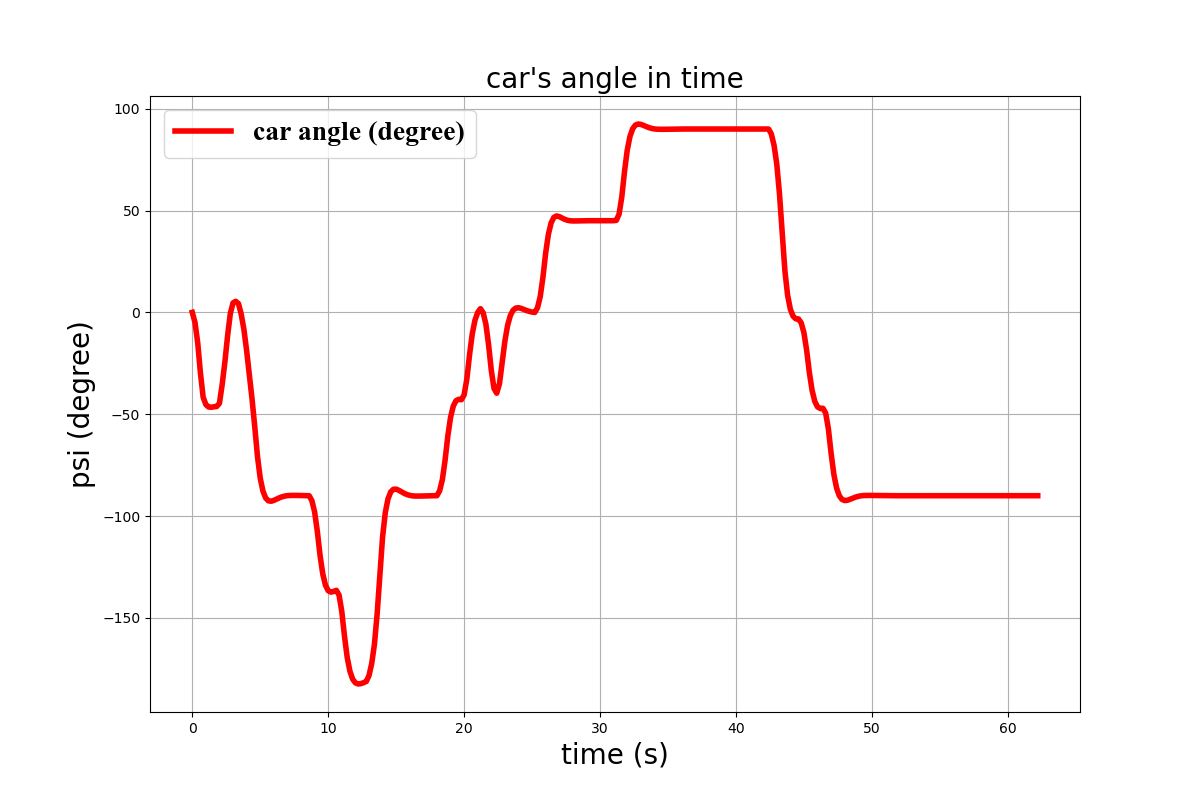
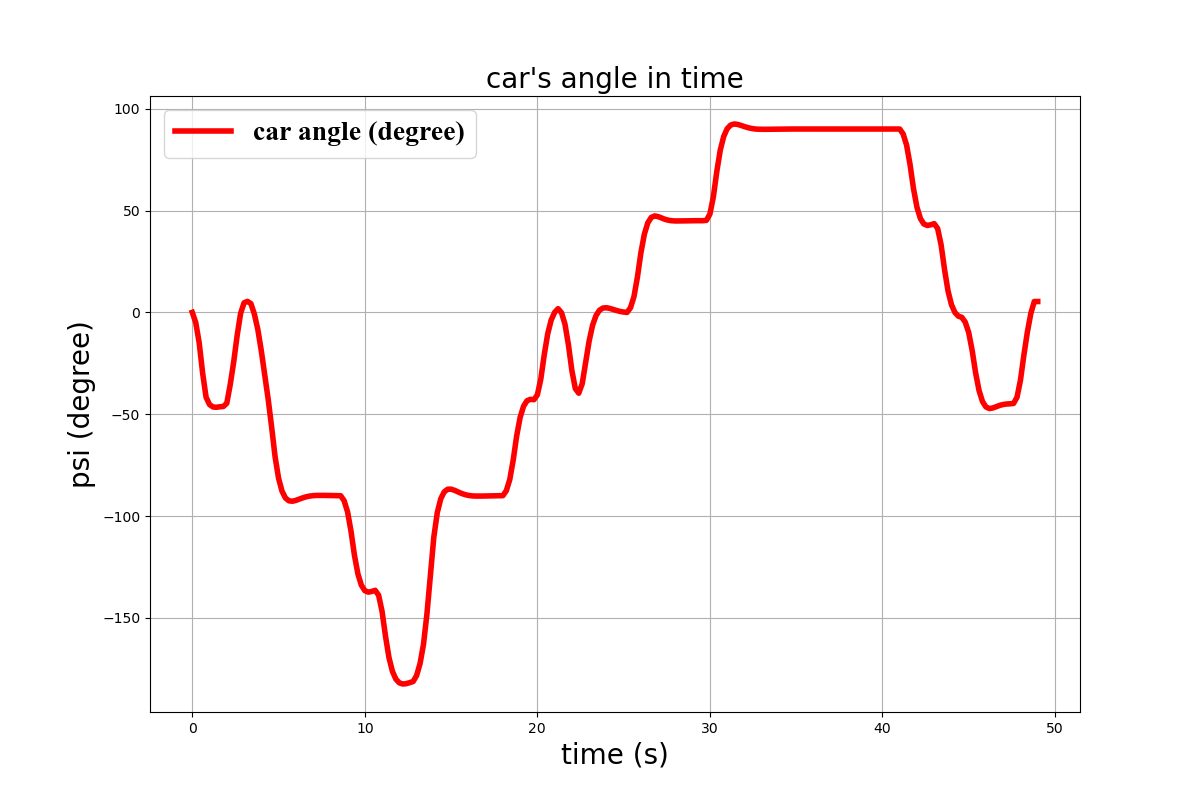
V3

diff --git a/main_autopark_v3.py b/main_autopark_v3.py
@@ -31,7 +31,7 @@ if __name__ == '__main__':
 
     ########################## defining obstacles ###############################################
     random_emptyslot = np.random.randint(-10,24)
-    parking1 = Parking1(-1,original_end) # random parking slot selection ## of can be args.parking
+    parking1 = Parking1(24,original_end) # random parking slot selection ## of can be args.parking
     end,car_obs,env_obs = parking1.generate_obstacles() #car_obs is what car can see and env_obs is what see
 
 
@@ -54,6 +54,7 @@ if __name__ == '__main__':
     controller = MPC_Controller()
     # controller = Linear_MPC_Controller()
 
+    #zeroing car steer
     res = env.render(my_car.x, my_car.y, my_car.psi, 0)
     cv2.imshow('environment', res)
     key = cv2.waitKey(1)
@@ -62,25 +63,41 @@ if __name__ == '__main__':
     ############################# path planning to Original Goal ###############################
     path_planner = ParkPathPlanning(car_obs) #path planner class to take in the obstacles visible to the car only
     print('routing to end of carpark ...') 
-    path = path_planner.plan_path(int(start[0]),int(start[1]),int(end[0]),int(end[1])) #path planning
+    path = path_planner.plan_path(int(start[0]),int(start[1]),int(original_end[0]),int(original_end[1])) #path planning
     env.draw_path(path)
     ################################## Travel to Original Goal ##################################################
     can_park = False #boolean to check if car can park
+    obstacle_found = False #boolean to check if obstacle is found
+    counter = 0 #counter to check if car can park
     print('driving to destination ...')
-    for i,point in enumerate(path):
-        
-        acc, delta = controller.optimize(my_car, path[i:i+MPC_HORIZON])
-        my_car.update_state(my_car.move(acc,  delta))
-        
-        #sensor update
-        res = env.render(my_car.x, my_car.y, my_car.psi, delta)
-        logger.log(point, my_car, acc, delta)
-        cv2.imshow('environment', res)
-        key = cv2.waitKey(1)
-        if key == ord('s'):
-            cv2.imwrite('res.png', res*255)
-        if point[0] -0.5 == original_end[0] and point[1] -0.5 == original_end[1]:
+    
+    # print(path_planner.a_star.obstacle_map)
+    
+    while len(path) > 0: #while path is not empty
+
+        acc, delta = controller.optimize(my_car, path[:MPC_HORIZON]) #get acc and delta from controller of the first 5 points in path
+        my_car.update_state(my_car.move(acc,  delta)) #update car state
+        res = env.render(my_car.x, my_car.y, my_car.psi, delta) #render environment of the car 
+        logger.log(path[0], my_car, acc, delta) #log the data of car
+        cv2.imshow('environment', res) #show the environment of car
+        key = cv2.waitKey(1) 
+        if path[0][0] -0.5 == original_end[0] and path[0][1] -0.5 == original_end[1]:
             print('~ No parking slots found, driver to take over ~')
+            break
+        
+        #TEWSITNTSNT SFWSDSDWEER
+        if counter > 150: ###TESTTTT NEEDD TO BE REPLACED WHEN CAN PARK IS TRUE
+            can_park = True #set can_park to true
+            current_pos = path[0]           
+            path = [] #clear path array
+            path = path_planner.plan_path(int(current_pos[0]),int(current_pos[1]),int(end[0]),int(end[1])) #path planning
+            env.draw_path(path)
+            
+        path = path[1:] #remove the first point in path
+        counter += 1
+        
+        if key == ord('s'):  #to save the imagee
+            cv2.imwrite('res.png', res*255)
 
     
     # zeroing car steer

diff --git a/environment_v3.py b/environment_v3.py
@@ -96,7 +96,7 @@ class Parking1:
                      [[30,i] for i in range(10,105)]+\
                      [[i,10] for i in range(30,36) ]+\
                      [[i,90] for i in range(70,76) ] #+ [[i,20] for i in range(-5,50)]
-        self.car_obs = np.array(self.walls)  #create an obstacle
+        # self.car_obs = np.array(self.walls)  #create an obstacle
         self.env_obs = np.array(self.walls) #obstacles for env to draw
         self.cars = {1 : [[35,20]], 2 : [[65,20]], 3 : [[75,20]], 4 : [[95,20]],
                      5 : [[35,32]], 6 : [[65,32]], 7 : [[75,32]], 8 : [[95,32]],
@@ -140,6 +140,7 @@ class Parking1:
                 obstacle = self.car_obstacle + self.cars[i] #adding car obstacles to the environment
                 self.env_obs = np.append(self.env_obs, obstacle) #adding car obstacles to the environment
         self.env_obs = np.array(self.env_obs).reshape(-1,2) #convert 1 column array to 2 column array
+        self.car_obs = self.env_obs #FSFBFEFIBFEIB
         return self.end, self.car_obs, self.env_obs
 
     def make_car(self): #to make car obstacle

diff --git a/pathplanning_V3.py b/pathplanning_V3.py
@@ -101,7 +101,6 @@ class AStarPlanner:
 
             # Check if the current node is the goal
             if current_node.x == self.goal.x and current_node.y == self.goal.y:
-                print("Goal reached.")
                 self.goal.parent_index = current_node.parent_index
                 self.goal.cost = current_node.cost
                 break
@@ -128,9 +127,7 @@ class AStarPlanner:
 
         # Reconstruct the final path from the goal node to the start node
         path_x, path_y = self.calc_final_path(self.goal, closed_set)
-        print(self.min_y, self.max_y)
         return path_x, path_y
-
 
     def calc_final_path(self, goal_node, closed_set):
         # generate final course
@@ -258,7 +255,6 @@ class ParkPathPlanning:
         ry = np.array(ry)-self.margin+0.5
         path = np.vstack([rx,ry]).T #transpose to [x,y] format
         return path[::-1] #return path in reverse order
-
 
     # def update_q_table(self, state, action, reward, next_state):
     #     alpha = 0.5  # learning rate
